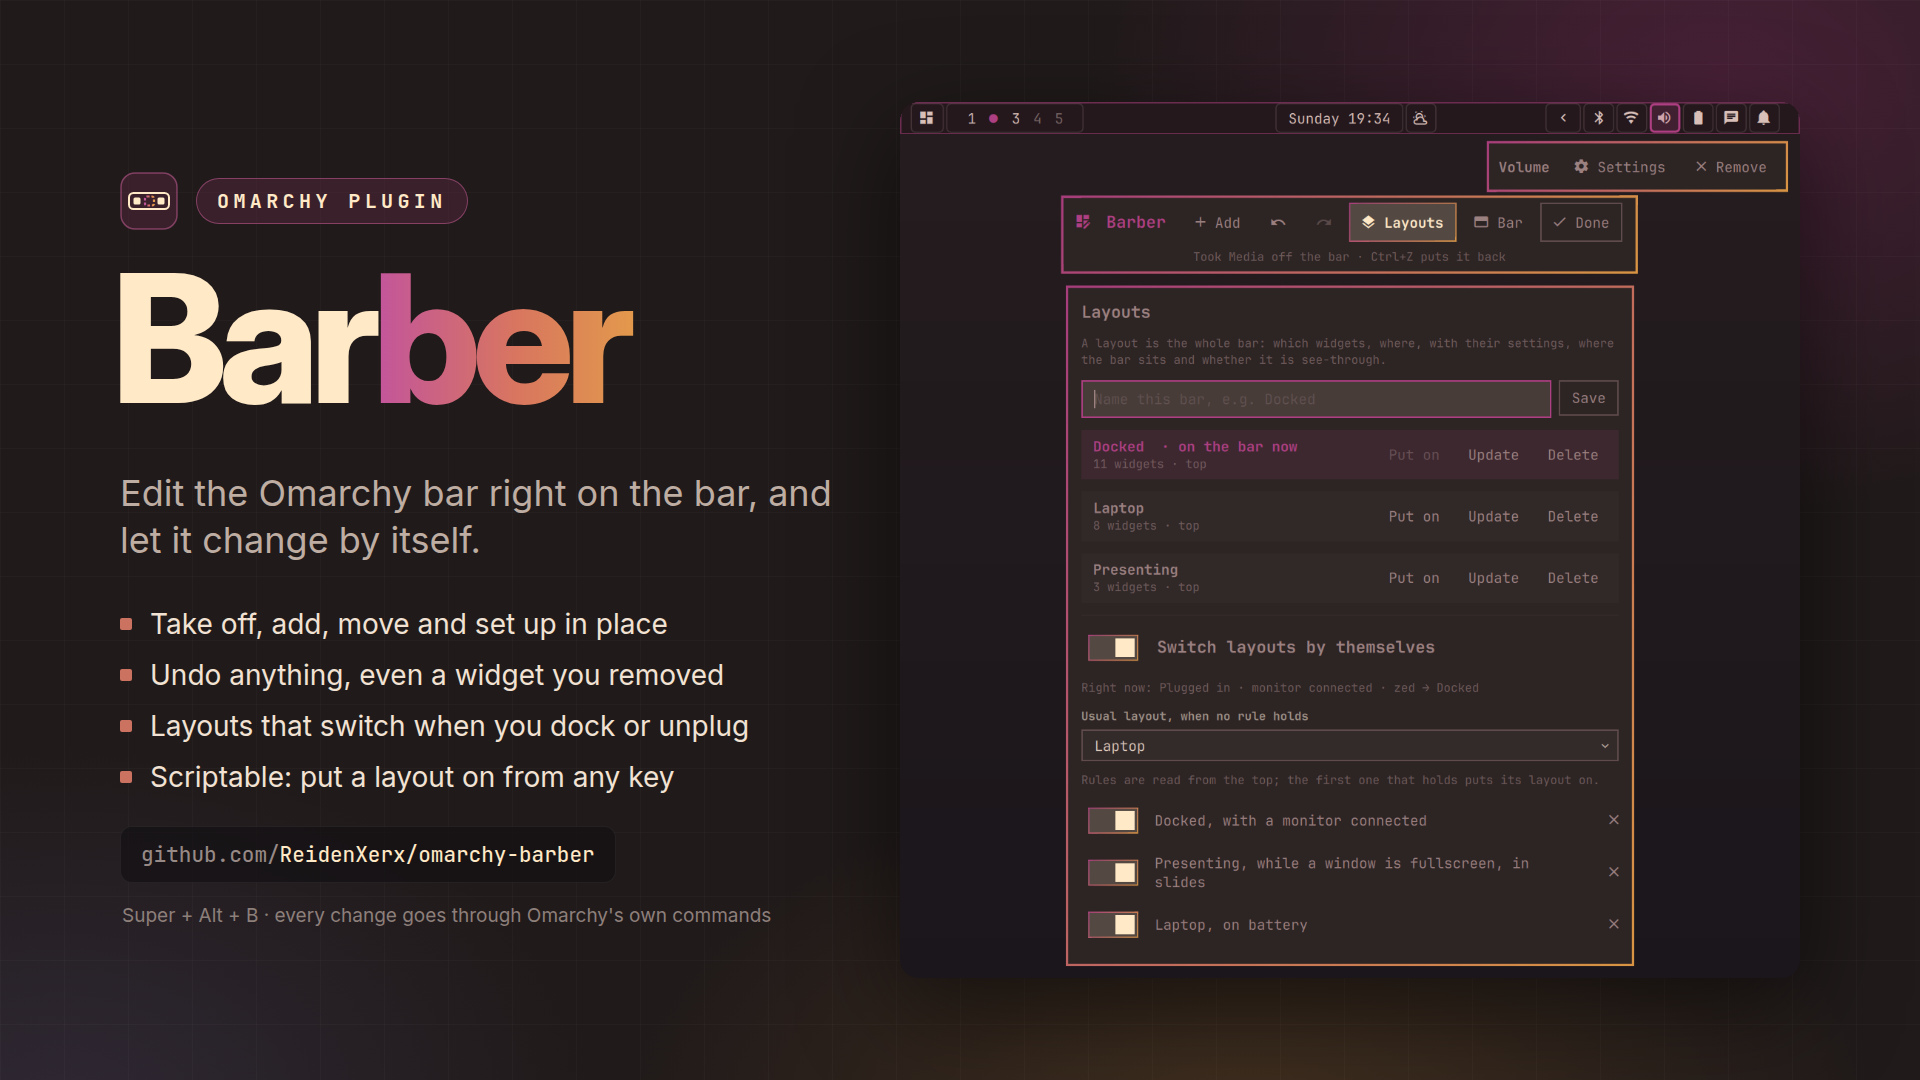
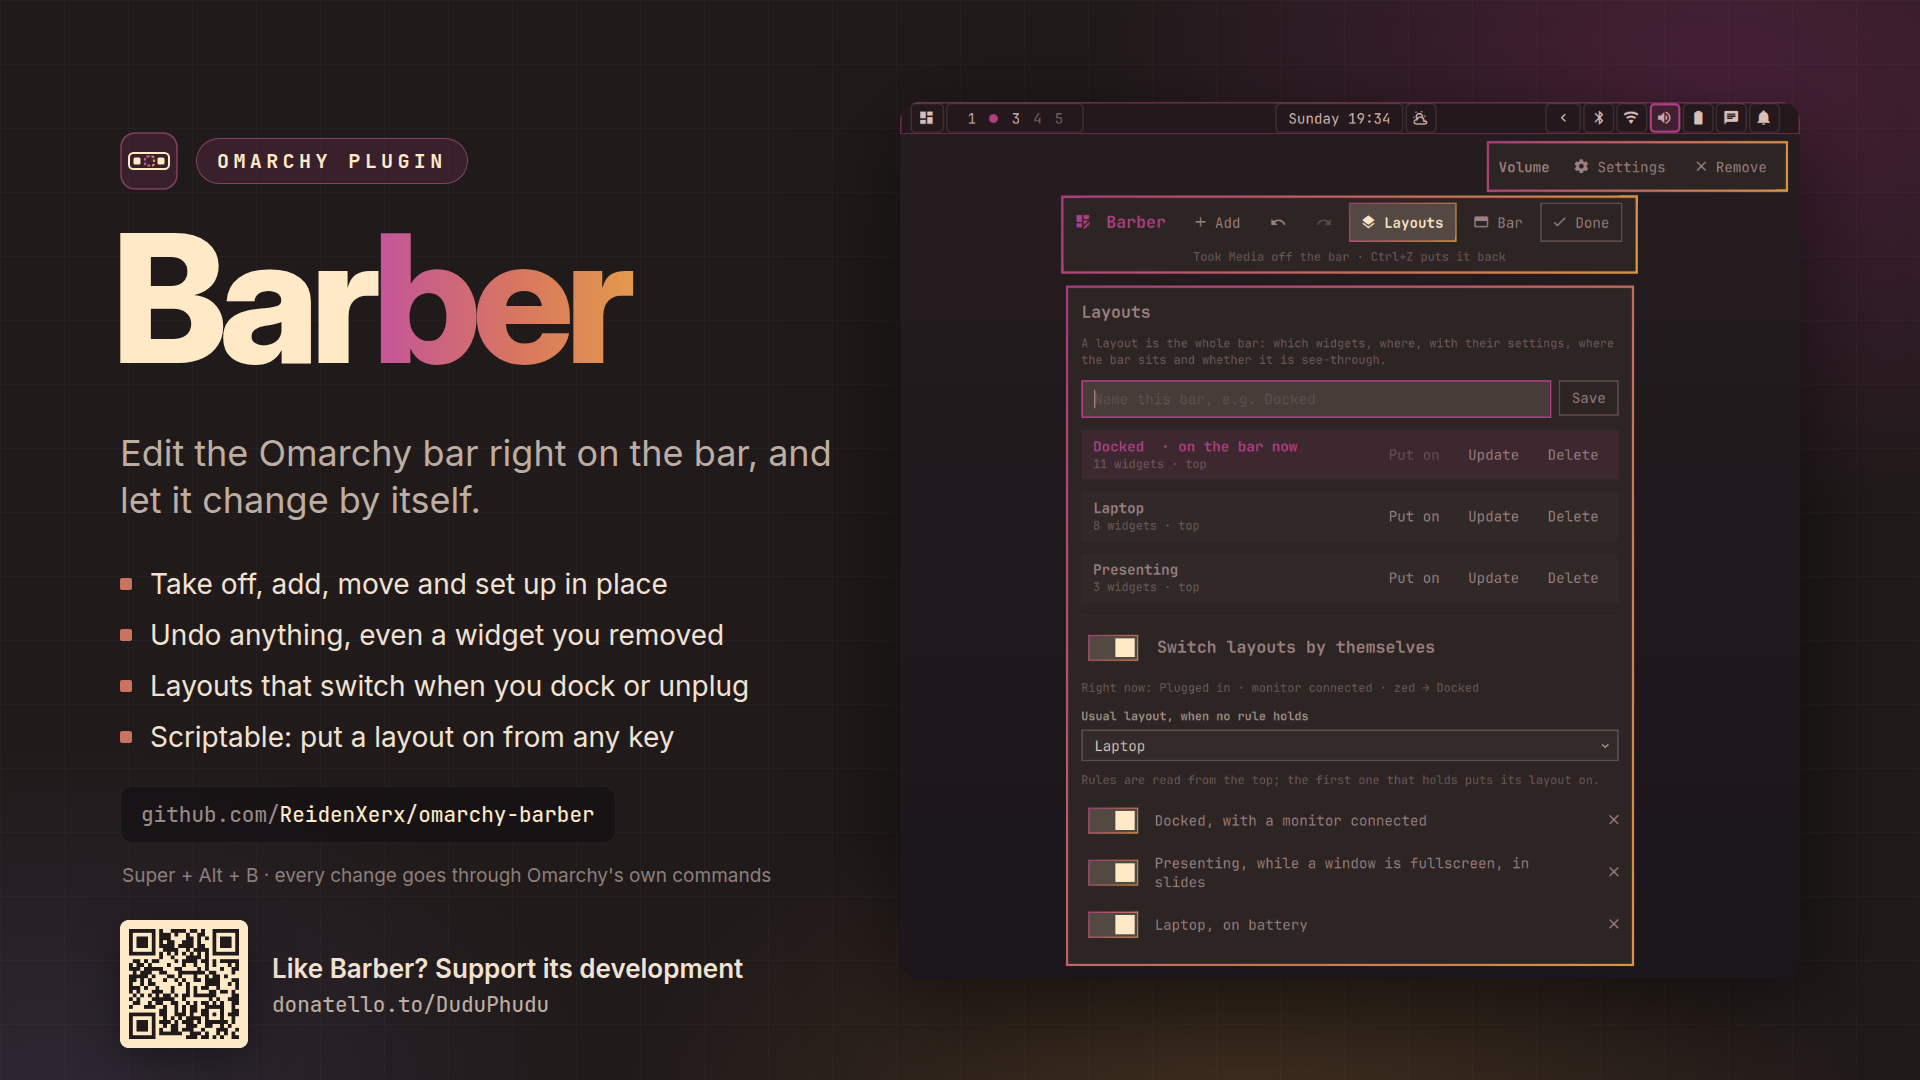
Support link: a Support section and a QR code on the preview
The README ends with a Support section linking to
https://donatello.to/DuduPhudu, and the marketplace preview carries a
QR code for the same page below the repository line.

Claude-Session: https://claude.ai/code/session_019yo64P8KJNrR6aGx5oYCTz

Changed region(s): [[0.0625, 0.1222, 0.4375, 0.9778]]

diff --git a/README.md b/README.md
@@ -102,4 +102,8 @@ node tests/model-test.js            # the bar, changes and their undo, layouts, 
 python3 tests/menu_install_test.py  # the menu installer, in a sandbox
 ```
 
+## Support
+
+If Barber is useful to you, you can support its development on [Donatello](https://donatello.to/DuduPhudu).
+
 MIT license.
